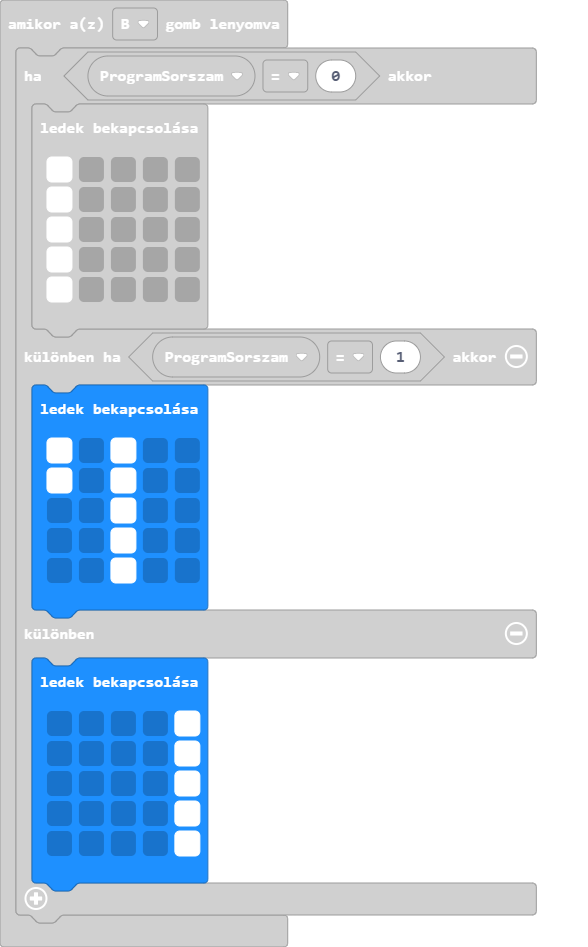
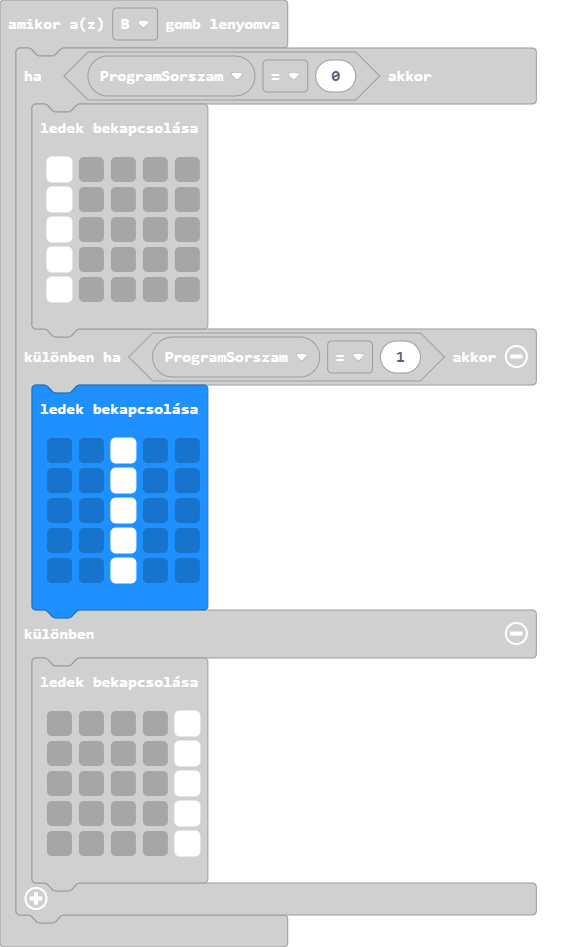
Update main.blocks, main.ts

Changed region(s): [[0.0306, 0.6737, 0.3673, 0.9493], [0.0612, 0.4593, 0.1224, 0.5206]]

diff --git a/main.ts b/main.ts
@@ -40,8 +40,8 @@ input.onButtonPressed(Button.B, function () {
             `)
     } else if (ProgramSorszam == 1) {
         basic.showLeds(`
-            # . # . .
-            # . # . .
+            . . # . .
+            . . # . .
             . . # . .
             . . # . .
             . . # . .
